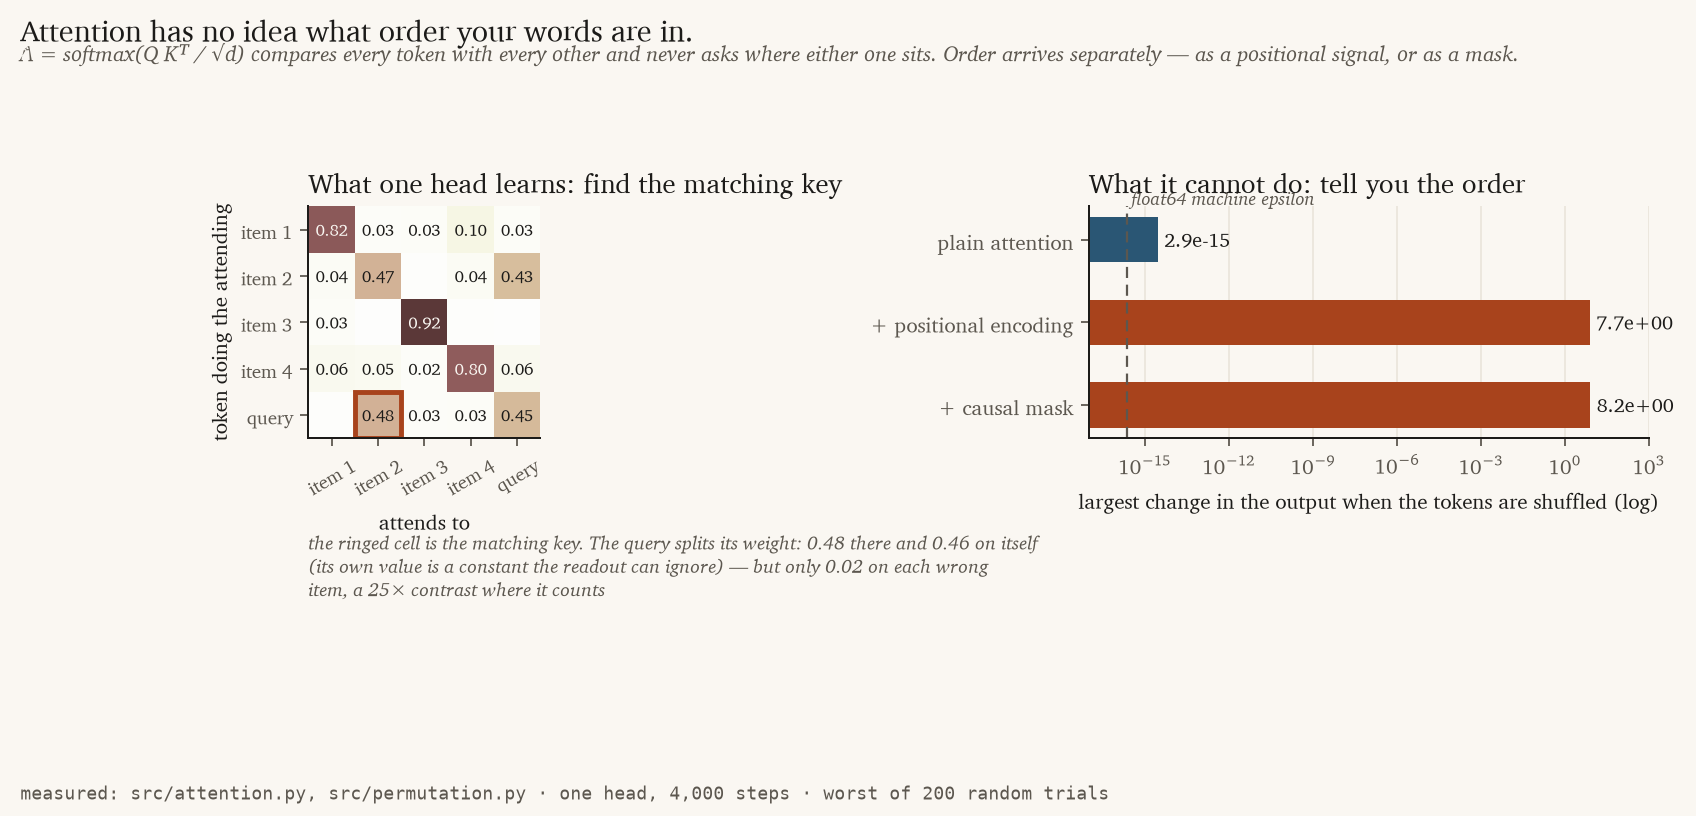
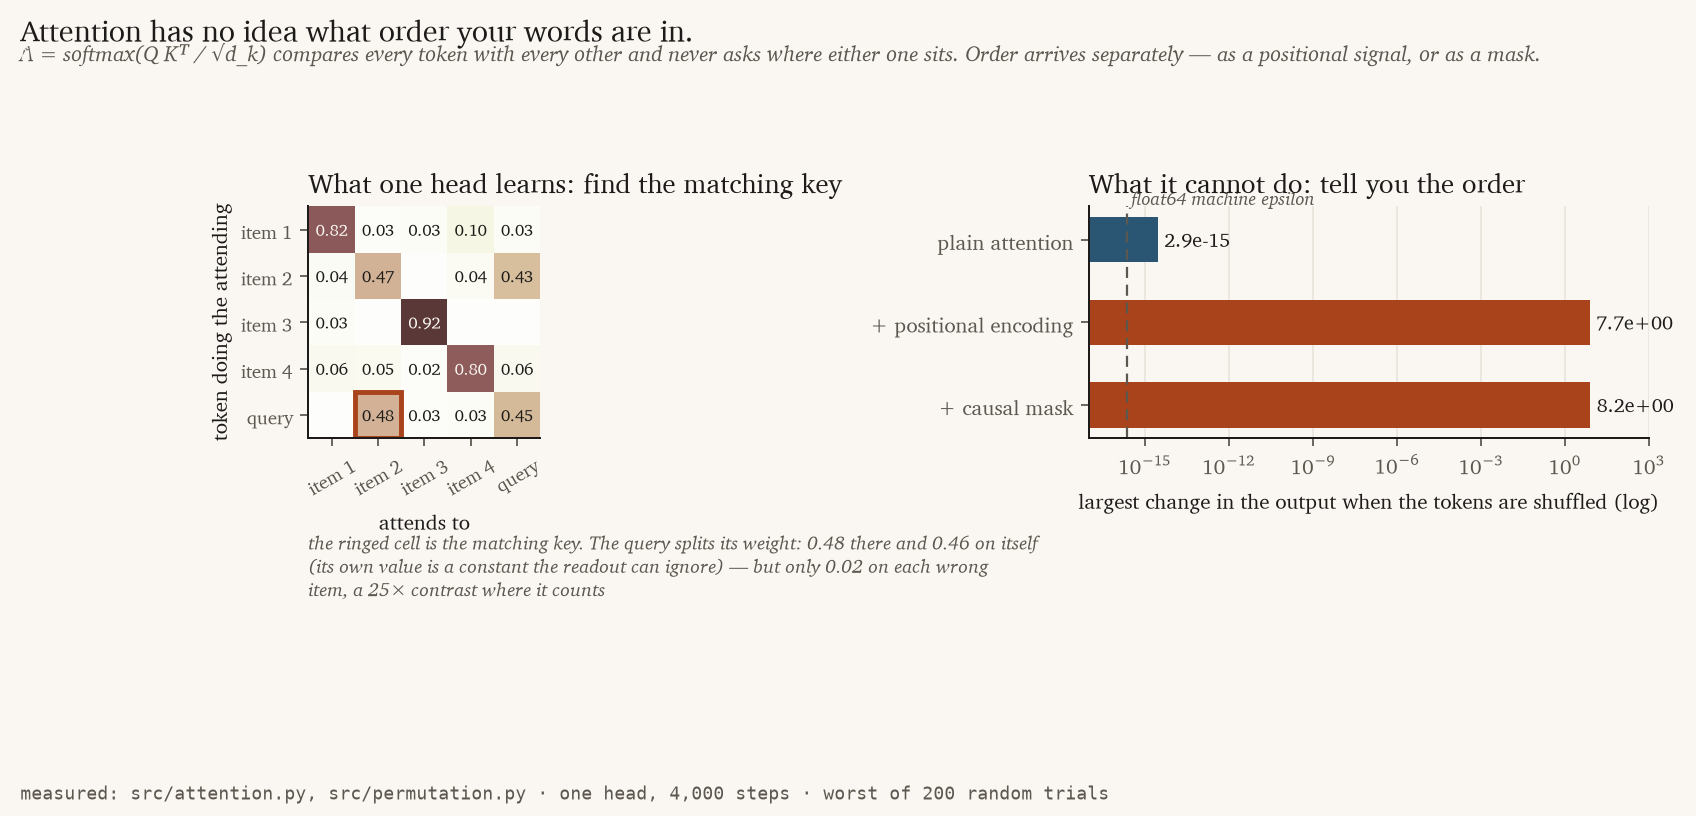
Review fixes: divergence guard, d_k notation, and a bad self-quote
Found by a careful re-read plus an automated cross-post quote audit.

- Playground diverged silently at high learning rates (lr 1.50 with 4 heads,
  positional encoding and the mask on is three clicks from the defaults).
  Every readout printed NaN, the order gauge printed NaN, the status still
  claimed to be training, and nothing recovered short of Reset. Now the run
  stops, says the rate is too high, refuses to train further, reports the
  gauge as unmeasurable rather than NaN, and Reset recovers.
- The scaling formula used d for one head's key width while the parameter
  budget used d for the model width. For GPT-3 those are 128 and 12,288.
  Now d_k throughout, with a sentence saying which is which.
- README, medium, linkedin and budget.py all quoted "about five million
  neurons" as part 1's words. Part 1 never says that; it says the unit is
  "repeated millions of times over". Requoted verbatim.
- Playground footer claimed parity with src/attention.py, which is
  single-head only. Corrected to "same maths, extended to several heads".
- Dropped dead code: an unused RNG in doSteps, unused assignments in
  figure.py, and a multiply-by-zero leftover in the Wv gradient.

Verified: gradient check passes for all four variants (worst 1.04e-05),
51/51 playground checks including eleven new ones covering divergence,
every number in the prose still read back out of results.json, and the
other three posts still pass 13/61/48.

Changed region(s): [[0.125, 0.0613, 0.9062, 0.0919]]

diff --git a/attention/index.html b/attention/index.html
@@ -272,7 +272,7 @@
   </div>
 
   <footer>
-    <span>Same head as src/attention.py &middot; backward pass gradient-checked against finite differences.</span>
+    <span>Same maths as src/attention.py, extended to several heads &middot; backward pass gradient-checked against finite differences.</span>
     <span>Part of <a href="../">AI, from first principles</a></span>
   </footer>
 </div>
@@ -297,6 +297,10 @@
   let Wq = [], Wk = [], Wv = [], Wo = [];
   let step = 0, lastLoss = null, acc = null, pts = null;
   let running = false, seed = 1, lossHist = [], shiftValue = null;
+  // At the top of the learning-rate range, with several heads, this can blow up.
+  // Once the weights are NaN nothing recovers, so latch it and say so rather than
+  // printing NaN into every readout and pretending training is still going.
+  let diverged = false;
   let acc_ms = 0, last = 0, viewHead = 0;
   let demo = null;                          // the example shown in the matrix
 
@@ -516,6 +520,7 @@
 
   // ------------------------------- the order test: shuffle and compare
   function orderTest() {
+    if (diverged) return null;
     const rnd = mulberry32(hash32(seed * 7919 + 13));
     const { X } = makeBatch(1, rnd);
     const seq = X[0], t = seq.length;
@@ -529,7 +534,7 @@
     let worst = 0;
     for (let i = 0; i < t; i++) for (let k = 0; k < dk(); k++)
       worst = Math.max(worst, Math.abs(b[i][k] - a[perm[i]][k]));
-    return worst;
+    return isFinite(worst) ? worst : null;
   }
 
   // -------------------------------------------------------------- render
@@ -568,6 +573,12 @@
   }
 
   function renderCalc() {
+    if (diverged) {
+      document.getElementById("calc").innerHTML =
+        '<span class="dim">The weights overflowed, so there is no arithmetic left to show.\n' +
+        'Press Reset and lower the learning rate.</span>';
+      return;
+    }
     const t = T(), h = Math.min(viewHead, nHeads - 1);
     const f = demo.f, i = t - 1, off = h * D_HEAD;
     const scale = 1 / Math.sqrt(D_HEAD);
@@ -624,10 +635,12 @@
 
   function updateReadout() {
     document.getElementById("v-step").textContent = step.toLocaleString();
-    document.getElementById("v-loss").textContent =
-      lastLoss === null ? "—" : lastLoss.toFixed(4);
-    document.getElementById("v-acc").textContent = acc === null ? "—" : Math.round(acc * 100) + "%";
-    document.getElementById("v-pts").textContent = pts === null ? "—" : Math.round(pts * 100) + "%";
+    const num = (v, fmt) => (v === null ? "—" : (isFinite(v) ? fmt(v) : "diverged"));
+    document.getElementById("v-loss").textContent = num(lastLoss, v => v.toFixed(4));
+    document.getElementById("v-acc").textContent =
+      diverged ? "—" : num(acc, v => Math.round(v * 100) + "%");
+    document.getElementById("v-pts").textContent =
+      diverged ? "—" : num(pts, v => Math.round(v * 100) + "%");
     document.getElementById("v-shift").textContent = fmtShift(shiftValue);
     const card = document.getElementById("g-shift");
     card.className = "gauge wide" + (shiftValue === null ? "" : (shiftValue < 1e-12 ? " blind" : " aware"));
@@ -675,7 +688,7 @@
     running = false;
     document.getElementById("run").textContent = "Run";
     step = 0; lastLoss = null; acc = null; pts = null; lossHist = []; acc_ms = 0; last = 0;
-    shiftValue = null;
+    shiftValue = null; diverged = false;
     if (newSeed !== undefined) seed = newSeed;
     initWeights(seed);
     refreshDemo();
@@ -686,14 +699,22 @@
   const currentLr = () => +document.getElementById("lr").value / 100;
 
   function doSteps(k) {
+    if (diverged) return;
     const lr = currentLr();
-    const rnd = mulberry32(hash32(seed * 1009 + step));
     for (let i = 0; i < k && step < MAX_STEPS; i++) {
       const batch = makeBatch(BATCH, mulberry32(hash32(seed * 1009 + step)));
       const g = lossAndGrads(batch);
       applyGrads(g, lr);
       lastLoss = g.loss;
       step++;
+      if (!isFinite(lastLoss)) {
+        diverged = true; running = false;
+        document.getElementById("run").textContent = "Run";
+        setStatus(`<b>Diverged.</b> The learning rate is too high for this configuration, so the ` +
+                  `weights have overflowed and every number below is now meaningless. Press ` +
+                  `<b>Reset</b> and try a smaller learning rate.`, "bad");
+        return;
+      }
       if (step % 10 === 0 || lossHist.length === 0) lossHist.push(lastLoss);
     }
     const e = evaluate();
@@ -766,6 +787,12 @@
 
   document.getElementById("shuffle").addEventListener("click", () => {
     shiftValue = orderTest();
+    if (shiftValue === null) {
+      setStatus("<b>Diverged.</b> There is nothing meaningful to measure until you press " +
+                "<b>Reset</b>.", "bad");
+      updateReadout();
+      return;
+    }
     const blind = shiftValue < 1e-12;
     setStatus(blind
       ? `Shuffled the tokens. The output moved by <b>${shiftValue.toExponential(1)}</b> — that is ` +

diff --git a/attention/src/figure.py b/attention/src/figure.py
@@ -94,7 +94,7 @@ fig, (axL, axR) = plt.subplots(1, 2, figsize=(10.6, 5.1),
 
 # ---- left: the learned attention matrix
 labels = [f"item {i+1}" for i in range(N_ITEMS)] + ["query"]
-im = axL.imshow(A_trained, cmap="pink_r", vmin=0, vmax=1, aspect="equal")
+axL.imshow(A_trained, cmap="pink_r", vmin=0, vmax=1, aspect="equal")
 axL.set_xticks(range(N_ITEMS + 1)); axL.set_xticklabels(labels, fontsize=8.6, rotation=30)
 axL.set_yticks(range(N_ITEMS + 1)); axL.set_yticklabels(labels, fontsize=8.6)
 axL.set_xlabel("attends to", fontsize=9.6)
@@ -127,7 +127,7 @@ names = [c[0] for c in CASES]
 vals = [max(perm[n]["out_max"], 1e-16) for n in names]
 eps = float(np.finfo(np.float64).eps)
 colours = [style.BLUE if v < 1e-12 else style.RUST for v in vals]
-bars = axR.barh(range(len(names)), vals, color=colours, height=.55, edgecolor="none")
+axR.barh(range(len(names)), vals, color=colours, height=.55, edgecolor="none")
 axR.set_yticks(range(len(names)))
 axR.set_yticklabels(names, fontsize=9.4)
 axR.invert_yaxis()
@@ -148,7 +148,7 @@ axR.set_axisbelow(True)
 fig.suptitle("Attention has no idea what order your words are in.",
              x=.012, ha="left", fontsize=13.5, y=.985)
 fig.text(.012, .925,
-         "A = softmax(Q Kᵀ / √d) compares every token with every other and never asks where either one "
+         "A = softmax(Q Kᵀ / √d_k) compares every token with every other and never asks where either one "
          "sits. Order arrives separately — as a positional signal, or as a mask.",
          ha="left", fontsize=9.8, color=style.INK_SOFT, style="italic")
 style.credit(fig, f"measured: src/attention.py, src/permutation.py · one head, "

diff --git a/attention/src/permutation.py b/attention/src/permutation.py
@@ -89,7 +89,7 @@ if __name__ == "__main__":
     print("the last bit of a double: shuffling the tokens shuffles the output rows")
     print("and changes nothing else, and the attention matrix is the very same")
     print("matrix with its rows and columns permuted.")
-    print("\nThere is no index in the formula. A = softmax(Q Kᵀ / √d) compares every")
+    print("\nThere is no index in the formula. A = softmax(Q Kᵀ / √d_k) compares every")
     print("token with every other token and never asks where either of them sits.")
     print("\nBoth of the other two rows are large, and that is the real lesson: a")
     print("transformer gets its sense of order from things bolted on beside the")

diff --git a/attention/src/budget.py b/attention/src/budget.py
@@ -87,8 +87,8 @@ if __name__ == "__main__":
     neurons = 4 * g3["d"] * g3["layers"]
     print(f"\nAnd those feed-forward layers are where the neurons are: "
           f"4d x layers = {neurons:,}")
-    print("which is the 'about five million neurons' from part 1. Same units, all")
-    print("the way back to the umbrella.")
+    print("which is what part 1's 'repeated millions of times over' cashes out to.")
+    print("Same units, all the way back to the umbrella.")
 
     print("\nEvery modern change pushes the same way: gated feed-forward layers use")
     print("three matrices instead of two, and grouped-query attention shrinks the")

diff --git a/attention/src/attention.py b/attention/src/attention.py
@@ -5,7 +5,7 @@ Attention is usually introduced as a formula to memorise. It is a soft dictionar
 lookup: every token proposes a query, every token advertises a key, the two are
 compared, and the result is a weighted average of the values. That is all.
 
-    A = softmax(Q Kᵀ / √d)      who to listen to
+    A = softmax(Q Kᵀ / √d_k)    who to listen to   (d_k = one head's key width)
     out = A V                   listen to them
 
 Backpropagation through it is written out longhand here -- no autograd -- because

diff --git a/attention/README.md b/attention/README.md
@@ -55,7 +55,7 @@ matrix*, with its rows and columns permuted to match. Same numbers, moved.
 Here is the whole mechanism:
 
 ```
-A   = softmax(Q Kᵀ / √d)        who to listen to
+A   = softmax(Q Kᵀ / √d_k)      who to listen to
 out = A V                       listen to them
 ```
 
@@ -69,10 +69,12 @@ only what those two tokens contain — never where either of them sits. It is a 
 over an unordered bag, and being blind to order isn't a flaw in the implementation; it is what the
 formula says.
 
-The √d is worth a sentence, since it looks arbitrary. Dot products of *d*-dimensional vectors grow like
-√d, and a softmax over large numbers saturates into a hard argmax with almost no gradient — exactly the
-dead end from [Part 3](../depth/). Dividing by √d keeps the scores in the range
-where softmax still has a usable slope. It is the same "get the signal size right" move, again.
+The √d_k is worth a sentence, since it looks arbitrary. **d_k here is the width of one head's key
+vector** — not the width of the model, which I'll call d further down; for GPT-3 those are 128 and 12,288
+respectively, so it matters which one you mean. Dot products of d_k-dimensional vectors grow like √d_k,
+and a softmax over large numbers saturates into a hard argmax with almost no gradient — exactly the dead
+end from [Part 3](../depth/). Dividing by √d_k keeps the scores in the range where
+softmax still has a usable slope. It is the same "get the signal size right" move, again.
 
 ---
 
@@ -162,9 +164,9 @@ Llama-2 70B (GQA)          12.1B         56.4B      82.4%    4.67:1 (gated)
 ```
 
 58 billion parameters of attention and 116 billion of feed-forward. And those feed-forward layers are
-where the *neurons* are: `4d × layers` for GPT-3 is **4,718,592** — which is exactly the "about five
-million neurons" Part 1 opened with. Four posts later, the umbrella decision is still the unit, and it is
-still where most of the model lives.
+where the *neurons* are: `4d × layers` for GPT-3 is **4,718,592**. Part 1 opened by saying the unit is
+"repeated millions of times over"; that is the number it cashes out to. Four posts later, the umbrella
+decision is still the unit, and it is still where most of the model lives.
 
 Attention is the part that decides **which** tokens get to talk to each other. The neurons are what
 actually does the thinking about what they said.
@@ -202,7 +204,7 @@ python3 src/permutation.py    # the order test: plain, with positions, with a ma
 python3 src/budget.py         # where the parameters actually live
 python3 src/figure.py         # regenerates results.json and image.png
 
-open index.html               # the interactive version, no install
+open index.html          # the interactive version, no install
 ```
 
 `figure.py` writes `results.json`, and every number quoted above is read back out of it, so the prose

diff --git a/attention/medium_article.md b/attention/medium_article.md
@@ -54,7 +54,7 @@ matrix*, with its rows and columns permuted to match. Same numbers, moved.
 Here is the whole mechanism:
 
 ```
-A   = softmax(Q Kᵀ / √d)        who to listen to
+A   = softmax(Q Kᵀ / √d_k)      who to listen to
 out = A V                       listen to them
 ```
 
@@ -68,10 +68,12 @@ only what those two tokens contain — never where either of them sits. It is a 
 over an unordered bag, and being blind to order isn't a flaw in the implementation; it is what the
 formula says.
 
-The √d is worth a sentence, since it looks arbitrary. Dot products of *d*-dimensional vectors grow like
-√d, and a softmax over large numbers saturates into a hard argmax with almost no gradient — exactly the
-dead end from [Part 3](https://shahzaibahmad3.github.io/ai-from-first-principles/depth/). Dividing by √d keeps the scores in the range
-where softmax still has a usable slope. It is the same "get the signal size right" move, again.
+The √d_k is worth a sentence, since it looks arbitrary. **d_k here is the width of one head's key
+vector** — not the width of the model, which I'll call d further down; for GPT-3 those are 128 and 12,288
+respectively, so it matters which one you mean. Dot products of d_k-dimensional vectors grow like √d_k,
+and a softmax over large numbers saturates into a hard argmax with almost no gradient — exactly the dead
+end from [Part 3](https://shahzaibahmad3.github.io/ai-from-first-principles/depth/). Dividing by √d_k keeps the scores in the range where
+softmax still has a usable slope. It is the same "get the signal size right" move, again.
 
 ---
 
@@ -161,9 +163,9 @@ Llama-2 70B (GQA)          12.1B         56.4B      82.4%    4.67:1 (gated)
 ```
 
 58 billion parameters of attention and 116 billion of feed-forward. And those feed-forward layers are
-where the *neurons* are: `4d × layers` for GPT-3 is **4,718,592** — which is exactly the "about five
-million neurons" Part 1 opened with. Four posts later, the umbrella decision is still the unit, and it is
-still where most of the model lives.
+where the *neurons* are: `4d × layers` for GPT-3 is **4,718,592**. Part 1 opened by saying the unit is
+"repeated millions of times over"; that is the number it cashes out to. Four posts later, the umbrella
+decision is still the unit, and it is still where most of the model lives.
 
 Attention is the part that decides **which** tokens get to talk to each other. The neurons are what
 actually does the thinking about what they said.

diff --git a/attention/linkedin_post.md b/attention/linkedin_post.md
@@ -6,7 +6,7 @@ Machine epsilon for a 64-bit float is 2.2e-16. That's about thirteen rounding er
 
 Look at the formula and it's obvious:
 
-    A   = softmax(Q Kᵀ / √d)
+    A   = softmax(Q Kᵀ / √d_k)
     out = A V
 
 Every token projects a query (what am I looking for), a key (what do I advertise), and a value (what I hand over if you listen). Compare every query to every key, softmax, take the weighted average.
@@ -27,7 +27,7 @@ One more thing. "Attention Is All You Need" is about what attention REPLACED —
 
 And attention isn't where the computation lives. Per layer: attention is 4d², the feed-forward sublayer is 8d². Exactly 2:1, for any width. GPT-3: 58B parameters of attention, 116B of feed-forward.
 
-Those feed-forward layers hold 4,718,592 neurons — exactly the "about five million" I quoted in part 1. Four posts in, the umbrella decision is still the unit, and still where most of the model lives.
+Those feed-forward layers hold 4,718,592 neurons — the "millions of times over" from part 1, made exact. Four posts in, the umbrella decision is still the unit, and still where most of the model lives.
 
 Attention decides which tokens get to talk. The neurons do the thinking about what they said.
 
